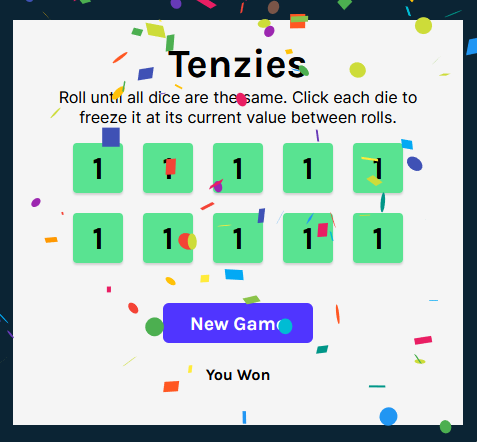
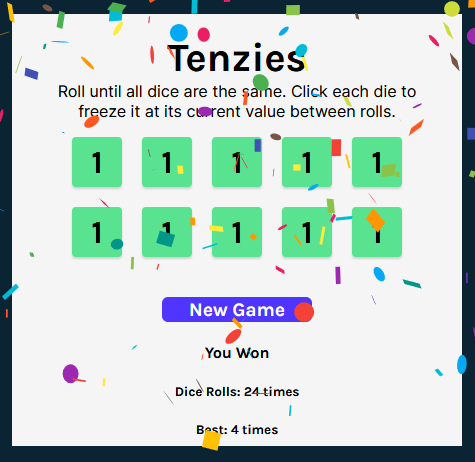
best time added

diff --git a/src/App.js b/src/App.js
@@ -3,7 +3,7 @@ import './App.css';
 import Die from './components/Die'
 import {nanoid} from "nanoid"
 import Confetti from 'react-confetti'
-
+var count = 0;
 function App() {
 
   const [dice, setDice] = React.useState(allNewDice())  // Setting 10 Dices state
@@ -21,7 +21,9 @@ function App() {
     if( allHeld && allSameValue)
     {
       setTenzies(true)
-      console.log("You Won")
+      const localStorageCount = JSON.parse(localStorage.getItem('count'))
+      if( localStorageCount === 0 || localStorageCount > count)
+        localStorage.setItem('count', JSON.stringify(count));
     }
 
   }, [dice] )
@@ -33,6 +35,7 @@ function App() {
     {
         setDice(allNewDice())
         setTenzies(false)
+        count = 0
     }
     else
     {
@@ -41,6 +44,7 @@ function App() {
         isHeld: false,
         id: nanoid()
       }));
+      count++;
     }
   }
 
@@ -78,7 +82,12 @@ function App() {
 
         </div>
         <button className="roll-dice" onClick={rollDice}>{tenzies ? "New Game" : "Roll"}</button>
-        {tenzies && <h4>You Won</h4>}
+        {tenzies && (<div className="won">
+                      <h4>You Won</h4>
+                      <h5>Dice Rolls: {count} times</h5>
+                      <h5>Best: {JSON.parse(localStorage.getItem('count'))} times</h5>
+                    </div>
+          )}
       </main>
   );
 }

diff --git a/src/App.css b/src/App.css
@@ -14,7 +14,7 @@ main {
   height: 90vh;
   display: flex;
   flex-direction: column;
-  justify-content: space-around;
+  justify-content: space-between;
   align-items: center;
   padding: 20px;
 }
@@ -72,4 +72,8 @@ main {
 
 .roll-dice:active {
   box-shadow: inset 5px 5px 10px -3px rgba(0, 0, 0, 0.7);
+}
+
+.won {
+  text-align: center;
 }
